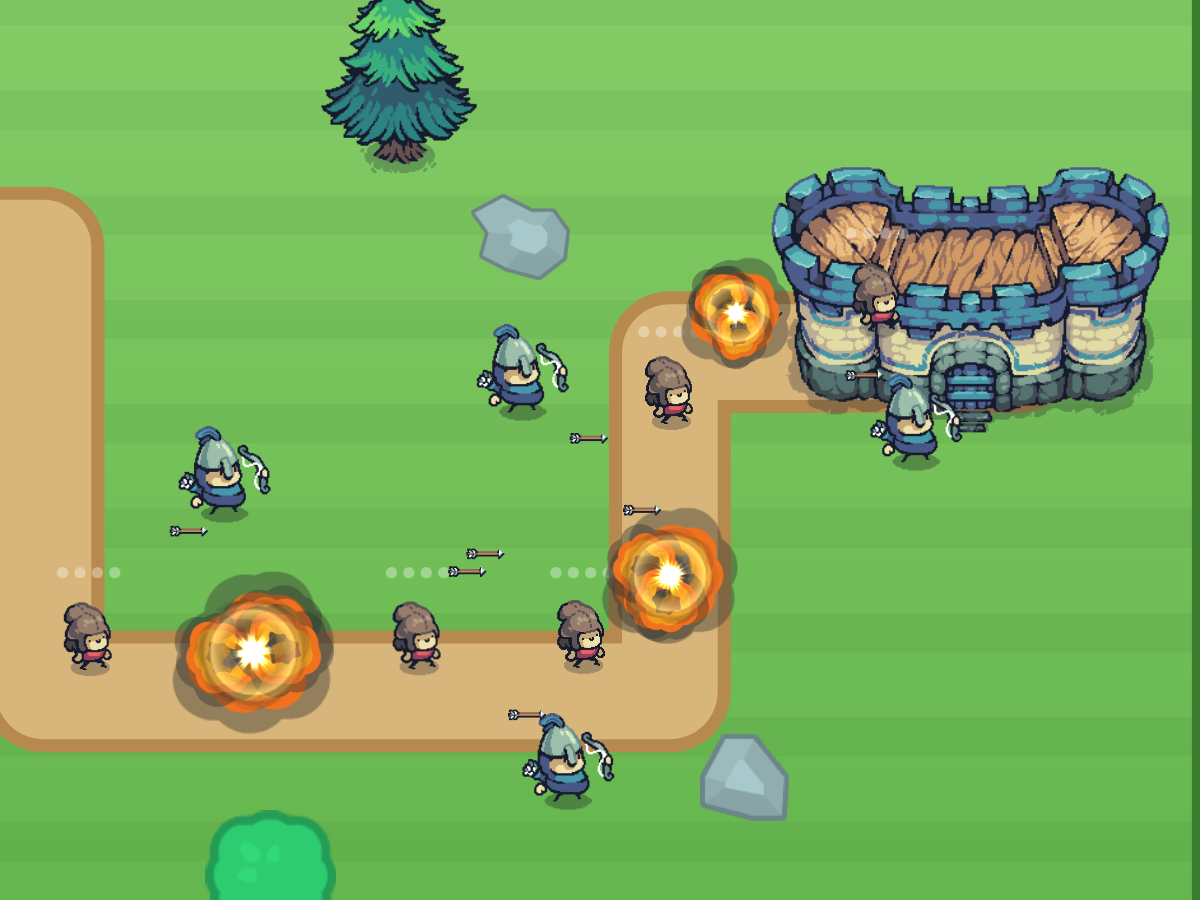
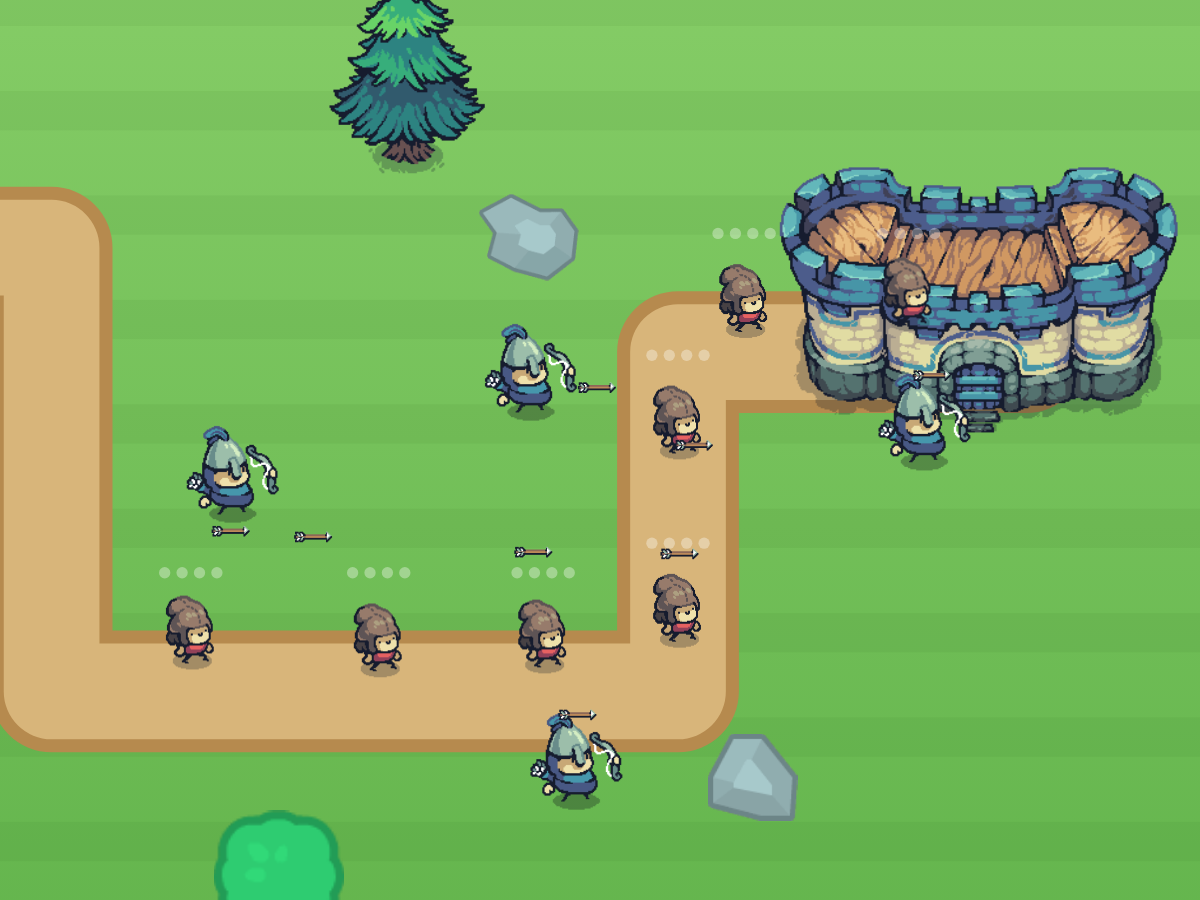
Revert the explosions, keep the Castle Guard effects fix
Reverts 316d48d. The cartoon blast was judged wrong for the product, so
BM.blast, the raw particle flag and both call sites are gone, and the
tile shots are back to the pass before it. Recorded in the logs so
TS1-TS3 do not try it again.

What survives is the real bug that turned up on the way: Castle Guard
had never called BM.useTextures, so every poof, spark and burst in the
whole game had been falling back to plain coloured dots since it
shipped. It now registers the same Kenney CC0 pack as the other
engines, verified in a real browser, five of five textures loading.
poofBaddie also tints its poof gold instead of #cfd8c0, a pale
grey-green that was invisible against grass.

No poof is staged in the tile photo: a burst frozen mid-air reads as a
white smear rather than a sparkle, so it stays in the game where it
moves.

qa-all.mjs: ALL CHECKS PASS. Both games still boot normally with no
photo mode and no console errors.

Claude-Session: https://claude.ai/code/session_01Kb34U7udKzq9aZuocsz4oQ

diff --git a/public/buildable-mechanics.js b/public/buildable-mechanics.js
@@ -66,7 +66,7 @@
         x, y, vx: Math.cos(a) * s, vy: Math.sin(a) * s,
         life: rnd(lf[0], lf[1]), max: lf[1], col,
         r: opts.r || 3, gravity: opts.gravity || 0, drag: opts.drag != null ? opts.drag : 4.5,
-        tex: opts.tex || null, add: !!opts.additive, raw: !!opts.raw, rot: opts.tex ? Math.random() * TAU : 0
+        tex: opts.tex || null, add: !!opts.additive, rot: opts.tex ? Math.random() * TAU : 0
       });
     }
   };
@@ -89,7 +89,7 @@
       const a = Math.max(0, Math.min(1, p.life / (p.max || 0.5)));
       const im = p.tex && BM.tex[p.tex];
       if (im && (im.naturalWidth || im.width)) {
-        const t = p.raw ? im : tintedTex(im, p.col || "#fff");
+        const t = tintedTex(im, p.col || "#fff");
         if (t) { ctx.save(); ctx.globalAlpha = a; if (p.add) ctx.globalCompositeOperation = "lighter";
           const s = (p.r || 3) * 4; ctx.translate(p.x, p.y); if (p.rot) ctx.rotate(p.rot); ctx.drawImage(t, -s / 2, -s / 2, s, s);
           ctx.restore(); continue; }
@@ -164,43 +164,6 @@
     BM.flash(fx, opts.flashCol || col, opts.flash != null ? opts.flash : (big ? 0.3 : 0.18));
     BM.shake(fx, opts.shake != null ? opts.shake : (big ? 0.4 : 0.12));
     if (opts.pop) BM.pop(fx.pops, x, y, opts.pop, opts.popCol || col);
-    if (typeof opts.sfx === "function") opts.sfx();
-    else if (opts.sfx && g.BuildableAudio) g.BuildableAudio.sfx(opts.sfx);
-  };
-
-  // ---- BLAST: the big, bright, kid-safe explosion --------------------------
-  // BM.explode tints every layer one flat colour, so a big one reads as a
-  // coloured blob. A blast layers the FX pack instead: a flare core drawn in its
-  // OWN colours, a shockwave ring, a spray of stars and sparks, and a few soft
-  // puffs drifting off it. No fire and no debris — things pop, they do not burn.
-  //   BM.blast(fx, x, y, "#ffd23f", { size: 1.4, sfx: "boom" })
-  BM.blast = function (fx, x, y, col, opts) {
-    if (!fx) return;
-    opts = opts || {}; const z = opts.size || 1; col = col || "#ffe27a";
-    if (BM.hasTex("boom")) {
-      // core: the cartoon explosion puff in its OWN colours (orange heart, grey
-      // rim), the shape a four-year-old reads as "it popped"
-      fx.parts.push({ x, y, vx: 0, vy: 0, life: 0.34, max: 0.34, col: "#fff",
-        r: 15 * z, drag: 0, gravity: 0, tex: "boom", add: false, raw: true, rot: 0 });
-      for (let i = 0; i < 3; i++) {
-        const a = Math.random() * TAU, d = 11 * z;
-        fx.parts.push({ x: x + Math.cos(a) * d, y: y + Math.sin(a) * d, vx: Math.cos(a) * 70, vy: Math.sin(a) * 70,
-          life: 0.4, max: 0.4, col: "#fff", r: 9 * z, drag: 3, gravity: 0, tex: "boom", add: false, raw: true, rot: Math.random() * TAU });
-      }
-      if (BM.hasTex("puff")) BM.burst(fx.parts, x, y, "#fff", Math.round(4 * z), { tex: "puff", raw: true, spd: [40, 150], life: [0.5, 0.9], r: 10 * z, drag: 2.4 });
-      BM.burst(fx.parts, x, y, col, Math.round(10 * z), { tex: "star", additive: true, spd: [150, 430], life: [0.32, 0.62], r: 6 * z, drag: 4.5 });
-      BM.burst(fx.parts, x, y, "#ffffff", Math.round(12 * z), { tex: "spark", additive: true, spd: [190, 520], life: [0.24, 0.5], r: 4.5 * z, drag: 5.5 });
-    } else if (BM.hasTex("spark")) {
-      fx.parts.push({ x, y, vx: 0, vy: 0, life: 0.22, max: 0.22, col: col,
-        r: 15 * z, drag: 0, gravity: 0, tex: "glow", add: true, rot: 0 });
-      BM.burst(fx.parts, x, y, col, Math.round(11 * z), { tex: "star", additive: true, spd: [130, 420], life: [0.32, 0.62], r: 6 * z, drag: 4.5 });
-      BM.burst(fx.parts, x, y, "#ffffff", Math.round(13 * z), { tex: "spark", additive: true, spd: [180, 520], life: [0.24, 0.5], r: 4.5 * z, drag: 5.5 });
-    } else {
-      BM.burst(fx.parts, x, y, col, Math.round(22 * z), { spd: [90, 380], life: [0.3, 0.6], r: 4 * z });
-    }
-    BM.ring(fx, x, y, 120 * z, col);
-    BM.flash(fx, opts.flashCol || col, opts.flash != null ? opts.flash : 0.22 * z);
-    BM.shake(fx, opts.shake != null ? opts.shake : 0.22 * z);
     if (typeof opts.sfx === "function") opts.sfx();
     else if (opts.sfx && g.BuildableAudio) g.BuildableAudio.sfx(opts.sfx);
   };

diff --git a/public/survival-engine.html b/public/survival-engine.html
@@ -157,7 +157,7 @@ function sfx(n,o){ if(DEMO)return; if(BA)BA.sfx(n,o); }
 const BM=(typeof window!=="undefined"&&window.BuildableMechanics)||(typeof globalThis!=="undefined"&&globalThis.BuildableMechanics);
 const fx=BM?BM.makeFx():null;   // flash+shake live here; the engine keeps its own particles/rings
 // Kenney CC0 particle textures (served from /fx) → glowing tinted FX; drawn shapes are the fallback.
-if(BM&&BM.useTextures) BM.useTextures({ glow:"/fx/circle_05.png", spark:"/fx/star_01.png", star:"/fx/star_07.png", ring:"/fx/circle_01.png", smoke:"/fx/smoke_05.png", fire:"/fx/fire_01.png", muzzle:"/fx/light_03.png", magic:"/fx/magic_05.png", boom:"/fx/explode4.png", puff:"/fx/explode7.png" });
+if(BM&&BM.useTextures) BM.useTextures({ glow:"/fx/circle_05.png", spark:"/fx/star_01.png", star:"/fx/star_07.png", ring:"/fx/circle_01.png", smoke:"/fx/smoke_05.png", fire:"/fx/fire_01.png", muzzle:"/fx/light_03.png", magic:"/fx/magic_05.png" });
 // shared start screen / level picker (BS) — the consistent launch screen for every game
 const BS=(typeof window!=="undefined"&&window.BuildableStartScreen)||(typeof globalThis!=="undefined"&&globalThis.BuildableStartScreen);
 // shared HUD (buildable-hud.js) — the ONE info-bar system for every game.
@@ -565,9 +565,9 @@ function tierVal(t){ return t===3?10:t===2?5:1; }
 function dropCoin(x,y,tier){ const rr=dropRng||Math.random; const t=tier||rollTier(); gems.push({ x,y, tier:t, val:tierVal(t), vx:(rr()-0.5)*2, vy:(rr()-0.5)*2, got:false }); }
 function killEnemy(e){
   if(e.boss){ for(let i=0;i<3;i++) dropCoin(e.x+(Math.random()-0.5)*46, e.y+(Math.random()-0.5)*46, 3); boss=null;
-    if(BM&&fx&&BM.blast) BM.blast(fx, e.x, e.y, e.col, { size:1.5, sfx:"boom" }); else if(BM&&fx) BM.explode(fx, e.x, e.y, e.col, { big:true, sfx:"boom" }); else { burst(e.x,e.y,e.col,26); sfx("boom"); } }
+    if(BM&&fx) BM.explode(fx, e.x, e.y, e.col, { big:true, sfx:"boom" }); else { burst(e.x,e.y,e.col,26); sfx("boom"); } }
   else { dropCoin(e.x,e.y);
-    if(BM&&fx&&BM.blast) BM.blast(fx, e.x, e.y, e.col, { sfx:"explode" }); else if(BM&&fx) BM.explode(fx, e.x, e.y, e.col, { sfx:"explode" }); else { burst(e.x,e.y,e.col,10); sfx("explode"); }
+    if(BM&&fx) BM.explode(fx, e.x, e.y, e.col, { sfx:"explode" }); else { burst(e.x,e.y,e.col,10); sfx("explode"); }
     const i=enemies.indexOf(e); if(i>=0)enemies.splice(i,1); } }
 // walk-over drop effects (instant, one-time treats)
 function collectDrop(kind){
@@ -861,18 +861,12 @@ function survShotPose(){
   // BR.coin spins on the clock, so pick the instant where it faces us square on
   SHOT_T=(2*Math.PI*Math.ceil((gx+1)/(2*Math.PI)) - gx)/3;
   drops.length=0; holes.length=0; boss=null; bossSpawned=false; helpOpen=false;
-  // the blasts go in LAST, so nothing above clears them. No screen flash and no
-  // shake: both are motion cues that only make a still picture muddy.
+  // the impact sparks go in LAST, so nothing above clears them
   if(BM&&fx&&BM.reset){ try{ BM.reset(fx); }catch(e){} }
-  // three foes popped a moment ago: the blasts sit in the GAPS, where a foe just
-  // was, not on top of one that is still coming at you
-  if(BM&&fx&&BM.blast){
-    BM.blast(fx, sxw(0.49), syw(0.39), P.spark,     { size:1.15, flash:0, shake:0 });
-    BM.blast(fx, sxw(0.84), syw(0.85), P.gem||P.spark, { size:0.85, flash:0, shake:0 });
-    BM.blast(fx, sxw(0.67), syw(0.53), "#ffd23f",   { size:0.65, flash:0, shake:0 });
-  }
-  burst(enemies[4].x, enemies[4].y, P.spark, 14);
-  burst(enemies[2].x, enemies[2].y, P.spark, 10);
+  burst(enemies[1].x, enemies[1].y, "#cfeaff", 22);
+  burst(enemies[3].x, enemies[3].y, P.spark, 22);
+  burst(enemies[4].x, enemies[4].y, P.spark, 16);
+  burst(enemies[2].x, enemies[2].y, P.spark, 12);
   shotPosed=true;
 }
 function survShotTick(){

diff --git a/public/castle-guard.html b/public/castle-guard.html
@@ -645,9 +645,7 @@ function step(dt) {
 function poofBaddie(b, p) {
   b.poof = 0.45;
   S.coins += (b.kind.reward != null ? b.kind.reward : GAME_CONFIG.econ.perPoof);
-  if (BM && BM.blast) BM.blast(fx, p.x, p.y, "#ffe08a", { size: 1.15 });
-  else if (BM) { BM.explode(fx, p.x, p.y, "#cfd8c0", { n: 16 }); }
-  if (BM) BM.pop(fx.pops, p.x, p.y, "poof!", "#cfd8c0");
+  if (BM) { BM.explode(fx, p.x, p.y, "#ffe08a", { n: 16, pop: "poof!" }); }
   if (BM) BM.pop(fx.pops, p.x, p.y - 18, "+" + (b.kind.reward || GAME_CONFIG.econ.perPoof), "#ffe08a");
   sfx("poof"); sfx("coin", { vol: 0.6 });
 }
@@ -1191,11 +1189,13 @@ function cgShotFocus() {
   cgShotF = { x: (g.x + c.x) / 2, y: (g.y + c.y) / 2 };
   return cgShotF;
 }
-/* The FX pack was never registered here, so every poof fell back to plain
-   coloured dots. Same Kenney CC0 textures the other engines use. */
+/* The FX pack was never registered here, so every poof, spark and burst in the
+   whole game fell back to plain coloured dots. Same Kenney CC0 textures the
+   other engines already use — no new art, and it fixes normal play, not just
+   the tile photo. */
 try { if (BM && BM.useTextures) BM.useTextures({ glow:"/fx/circle_05.png", spark:"/fx/star_01.png",
   star:"/fx/star_07.png", ring:"/fx/circle_01.png", smoke:"/fx/smoke_05.png",
-  boom:"/fx/explode4.png", puff:"/fx/explode7.png", muzzle:"/fx/light_03.png", magic:"/fx/magic_05.png" }); } catch (e) {}
+  muzzle:"/fx/light_03.png", magic:"/fx/magic_05.png" }); } catch (e) {}
 function cgShotColor() { try { const m = window.BUILDABLE_MANIFEST; if (m && m.color) return m.color; } catch (e) {} return "#2E8B57"; }
 function cgShotStart() {
   cgHideStart();
@@ -1221,7 +1221,7 @@ function cgShotSpawnBaddie() {
 function cgShotPose() {
   if (!S) return;
   // a whole column of goblins on the road, not a token three
-  const picks = [0.46, 0.53, 0.60, 0.67, 0.74, 0.81, 0.88, 0.94].map(f => S.W.total * f);
+  const picks = [0.50, 0.58, 0.65, 0.72, 0.80, 0.88, 0.95].map(f => S.W.total * f);
   while (S.baddies.length < picks.length) cgShotSpawnBaddie();
   S.baddies.length = picks.length;
   S.baddies.forEach((b, i) => { b.dist = picks[i]; b.hp = b.max; b.poof = 0; b.hit = 0; b.gone = false; });
@@ -1241,17 +1241,8 @@ function cgShotPose() {
   });
   S.bombs.length = 0;
   S.tutSlot = -1;                       // no tutorial hand, no glowing "tap here"
-  // three goblins poofing right now, in the game's own blast (no pop word, and
-  // no screen flash or shake: motion cues only muddy a still picture)
-  if (BM && BM.blast) {
-    const popped = [1, 4, 6];
-    popped.forEach((i, k) => { const b = S.baddies[i]; if (!b) return;
-      const p = pointAtRaw(S.W.segs, S.W.total, b.dist);
-      BM.blast(fx, p.x, p.y - 18, "#ffe08a", { size: 1.25 - k * 0.2, flash: 0, shake: 0 }); });
-    // and those three are GONE — the blast is where they were, not painted over
-    // a goblin still walking
-    S.baddies = S.baddies.filter((b, i) => popped.indexOf(i) < 0);
-  }
+  // No poof staged for the photo: a burst frozen mid-air reads as a white smear
+  // rather than a sparkle. It stays in the game, where it moves.
   shotPosed = true;
 }
 function cgShotTick(dt) {

diff --git a/public/tile-shots.html b/public/tile-shots.html
@@ -55,7 +55,7 @@
 <main>
   <section class="game">
     <h2>Space Survival</h2>
-    <p class="sub">The dark world. Sunset sky, the jetpack hero mid-fight, six foes closing in, three foes blown up mid-frame, a volley of sparkles, a lightning zap connecting, coins spilling.</p>
+    <p class="sub">The dark world. Sunset sky, the jetpack hero mid-fight, six foes closing in, a volley of sparkles in the air, a lightning zap connecting, coins spilling.</p>
     <div class="row">
       <figure><img src="/tile-shots/survival.png" alt="Space Survival, new photo with the colour wash">
         <figcaption><span class="tag new">new</span> with the purple wash</figcaption></figure>
@@ -76,7 +76,7 @@
 
   <section class="game">
     <h2>Castle Guard</h2>
-    <p class="sub">The bright world. The castle on the right, four archers all loosing at once, five goblins still marching, three blown up on the road, six arrows in the air.</p>
+    <p class="sub">The bright world. The castle on the right, four archers all loosing at once, seven goblins marching the road, six arrows in the air.</p>
     <div class="row">
       <figure><img src="/tile-shots/castleguard.png" alt="Castle Guard, new photo with the colour wash">
         <figcaption><span class="tag new">new</span> with the green wash</figcaption></figure>
@@ -104,11 +104,12 @@
       the game looks like. The painting is prettier and less true.</li>
       <li><b>Castle Guard has no coin on the field</b>, so it has no treat in the picture. Tower
       defence keeps its coins in the info bar, which the photo hides.</li>
-      <li><b>The explosions are real now, in the games themselves.</b> Both games got a proper
-      cartoon blast when something pops, built from explosion art that was already in the
-      shared library and had never been used. So the picture is not dressed up: play either
-      game and you get the same bang. Castle Guard had no sparkle effects wired in at all
-      until now, so its poofs were plain grey dots.</li>
+      <li><b>Castle Guard's effects were broken and are now fixed.</b> The game had never
+      switched its sparkle pack on, so every poof and burst in it had been falling back to
+      plain coloured dots since it shipped. It now uses the same pack as the other games,
+      and a goblin poofs in gold instead of a grey that vanished against the grass. That is
+      a fix to normal play, not to the photo: nothing is staged in the picture, because a
+      burst frozen mid-air reads as a white smear rather than a sparkle.</li>
     </ul>
   </div>
 </main>

diff --git a/SESSION-LOG.md b/SESSION-LOG.md
@@ -49,20 +49,21 @@ out: a second lightning arc and a nova shockwave ring read as white ropes and a
 geometric circle rather than as action, and a big particle explosion covered the foe
 it was meant to be killing.
 
-**Third pass: real explosions.** Mike asked for explosions and offered to make art. No
-new art was needed — the shared FX library already had a nine-frame cartoon explosion
-(`public/fx/explode0-8.png`, Kenney CC0) that no game had ever used. So rather than
-paint a bang into the photo, both games got a real one: `BM.blast` in
-`buildable-mechanics.js`, a layered pop with the explosion puff drawn in its OWN colours
-(the existing `BM.explode` tints every layer one flat colour, which is why a big one read
-as a coloured blob), plus a shockwave ring and a spray of stars and sparks. It is wired
-into Survival's `killEnemy` and Castle Guard's `poofBaddie`, so it happens in play, not
-only in the picture. `BM.drawParticles` learned a `raw` flag for untinted textures, which
-is what makes that possible. Castle Guard turned out never to have called
-`BM.useTextures` at all, so every one of its effects had been falling back to plain
-coloured dots — now fixed. In the shots the blasts sit in the gaps where a foe just was,
-never painted over one that is still coming at you, and the screen flash and shake are
-turned off for the photo since both are motion cues that only muddy a still frame.
+**Third pass: explosions tried, and taken back out.** Mike asked for explosions, and the
+shared FX library turned out to already hold a nine-frame cartoon explosion
+(`public/fx/explode0-8.png`, Kenney CC0) that no game had ever used. Both games got a real
+`BM.blast` built from it, wired into their kill moments so the picture would not be
+dressed up rather than honest. Mike judged the result bad and it was reverted in full:
+`BM.blast`, the `raw` particle flag and both call sites are gone, and the shots are back
+to the second pass. Recorded so TS1-TS3 do not try it again — a big cartoon fireball is
+not this product's look, even when the art is free and already in the library.
+
+**What survived, because it was a real bug.** Castle Guard had never called
+`BM.useTextures` at all, so every poof, spark and burst in the whole game had been falling
+back to plain coloured dots since it shipped. It now registers the same Kenney pack as the
+other engines (checked in a real browser: five of five textures load), and `poofBaddie`
+tints its poof gold instead of `#cfd8c0`, a pale grey-green that was invisible against
+grass. That is a fix to normal play. Nothing is staged in the photo.
 
 **Open for Mike, on `/tile-shots`.** Wash or no wash. Real screenshot or the AI
 painting. Both variants are on the page.

diff --git a/README.md b/README.md
@@ -46,15 +46,15 @@ Effects that did not survive: a second lightning arc and a nova ring, which read
 white ropes and a geometric circle, and a particle explosion big enough to hide the
 foe underneath it.
 
-**Real explosions, not painted-on ones.** `BM.blast` in `buildable-mechanics.js` is a
-layered cartoon pop built from `public/fx/explode0-8.png` — nine-frame Kenney CC0
-explosion art that had sat unused in the shared library since June. The puff is drawn in
-its own colours (`BM.drawParticles` learned a `raw` flag for that), because the older
-`BM.explode` tints every layer one flat colour and a big one reads as a blob. It is wired
-into Survival's `killEnemy` and Castle Guard's `poofBaddie`, so the games really do this
-now and the tile is not dressed up. Castle Guard had never called `BM.useTextures`, so
-all of its effects had been falling back to plain coloured dots; it now registers the
-same FX pack as the other engines.
+**Explosions were tried and rejected.** The shared FX library holds a nine-frame cartoon
+explosion (`public/fx/explode0-8.png`, Kenney CC0) that no game has ever used. A real
+`BM.blast` was built from it and wired into both games' kill moments; Mike judged it wrong
+for the product and it was reverted in full. Do not reach for it again in TS1-TS3.
+
+**Castle Guard's effects were genuinely broken.** It had never called `BM.useTextures`, so
+every poof, spark and burst in the game fell back to plain coloured dots. It now registers
+the same pack as the other engines, and `poofBaddie` tints gold instead of a pale
+grey-green that was invisible on grass. A fix to normal play, not to the photo.
 
 **Two findings for the rollout.** The wash reads well on Space Survival (purple over
 a sunset sky) and all but disappears on Castle Guard (green over grass), so wash
